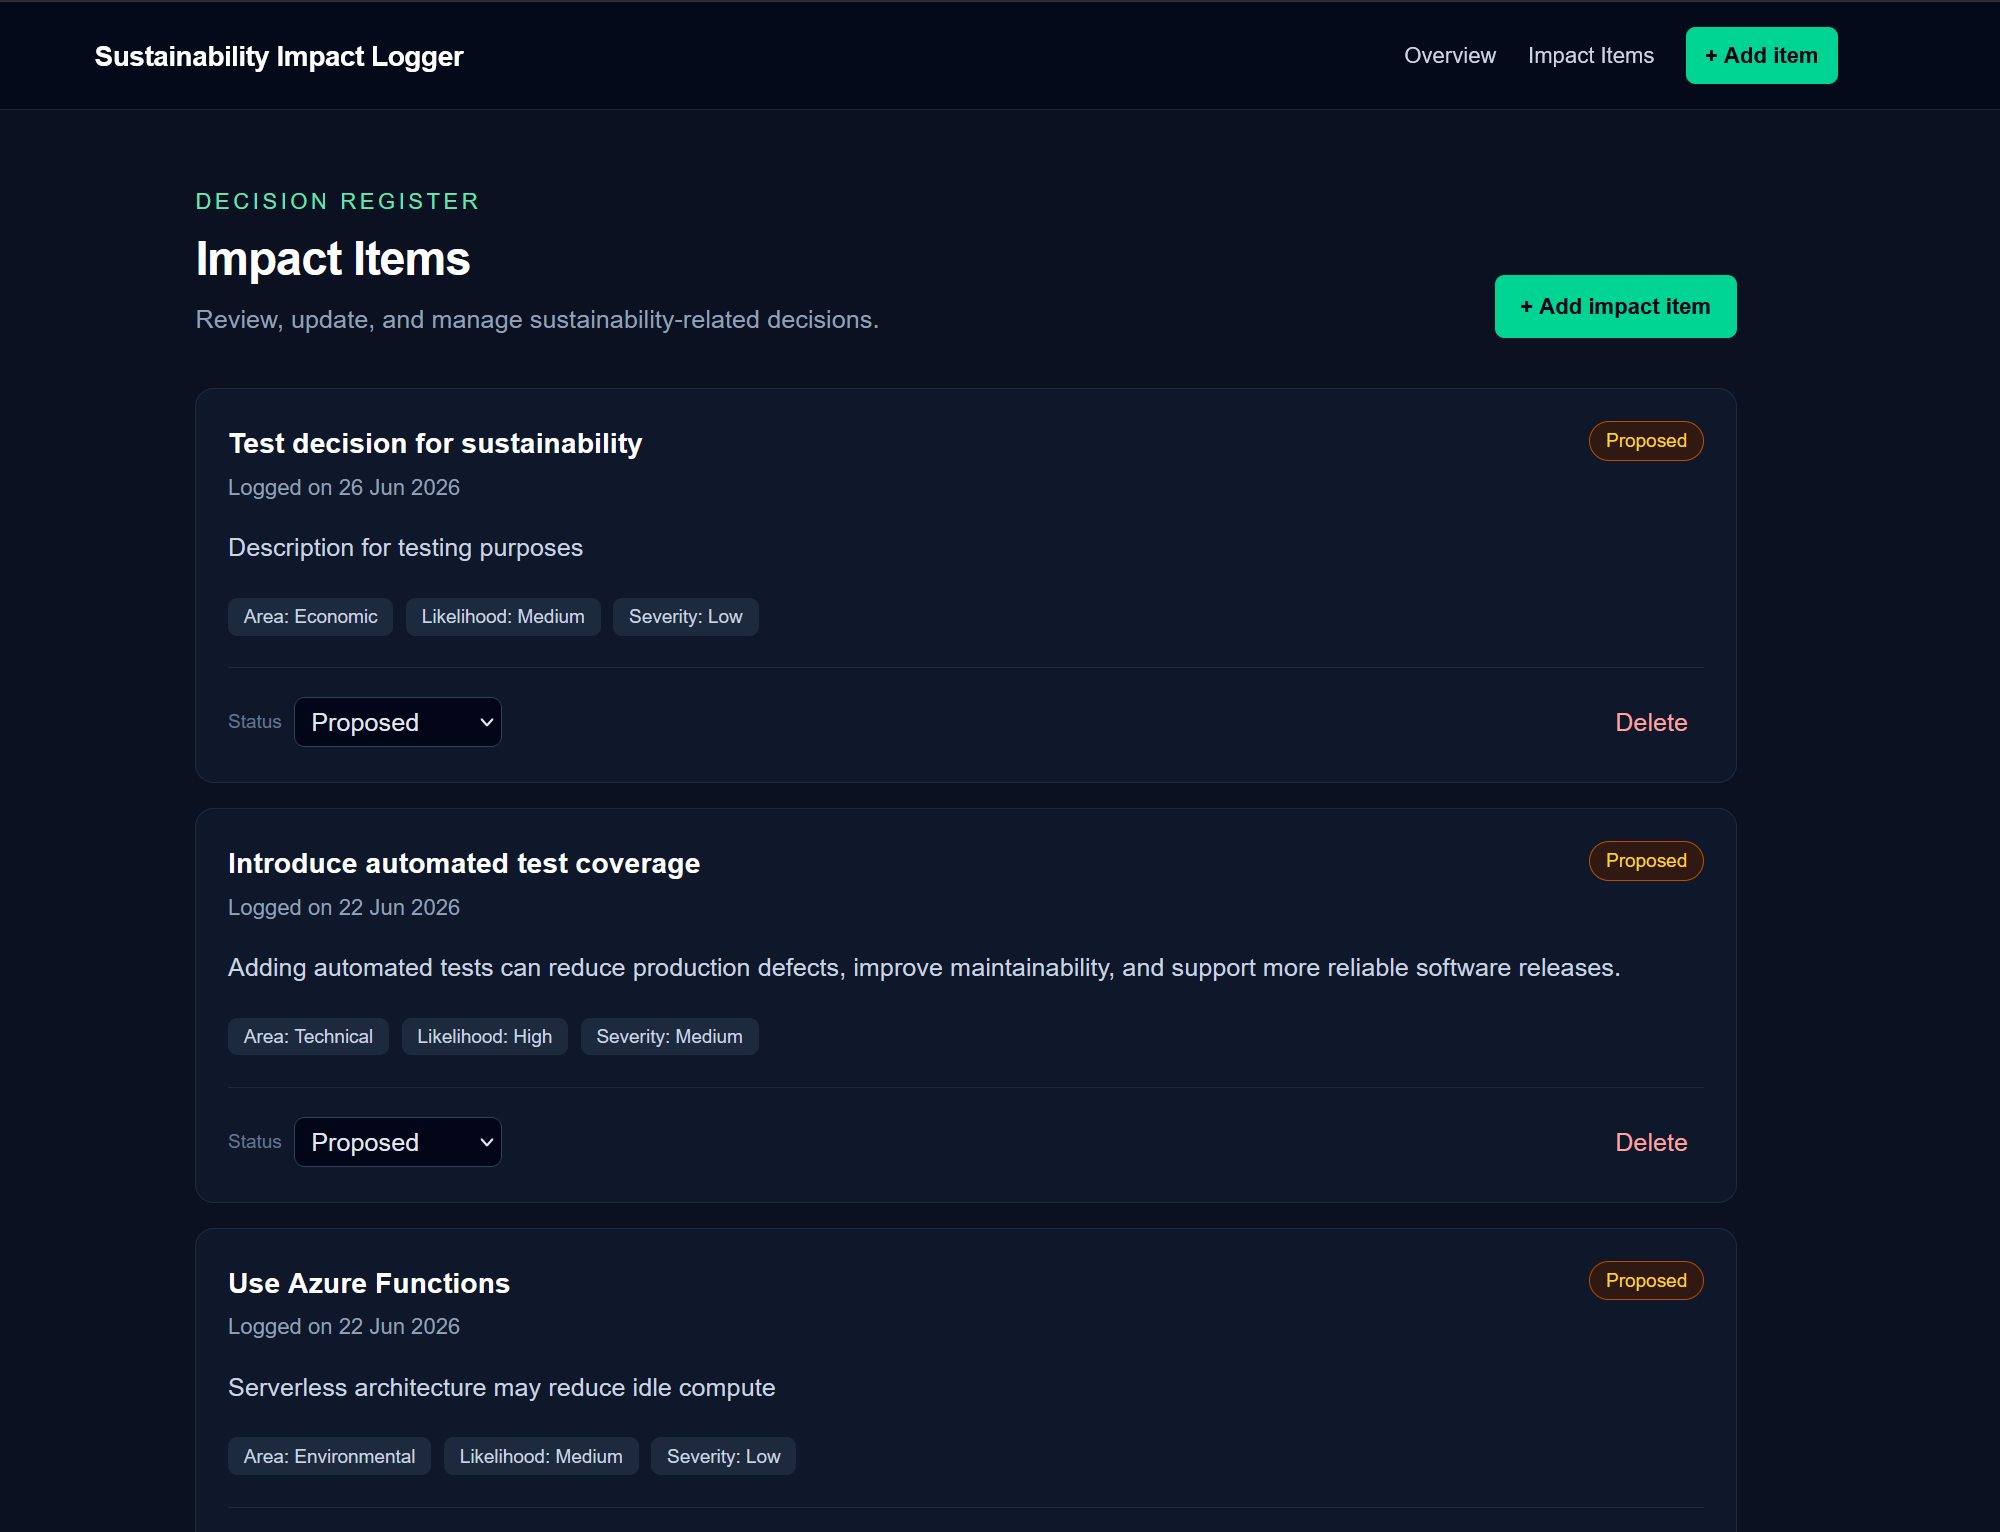
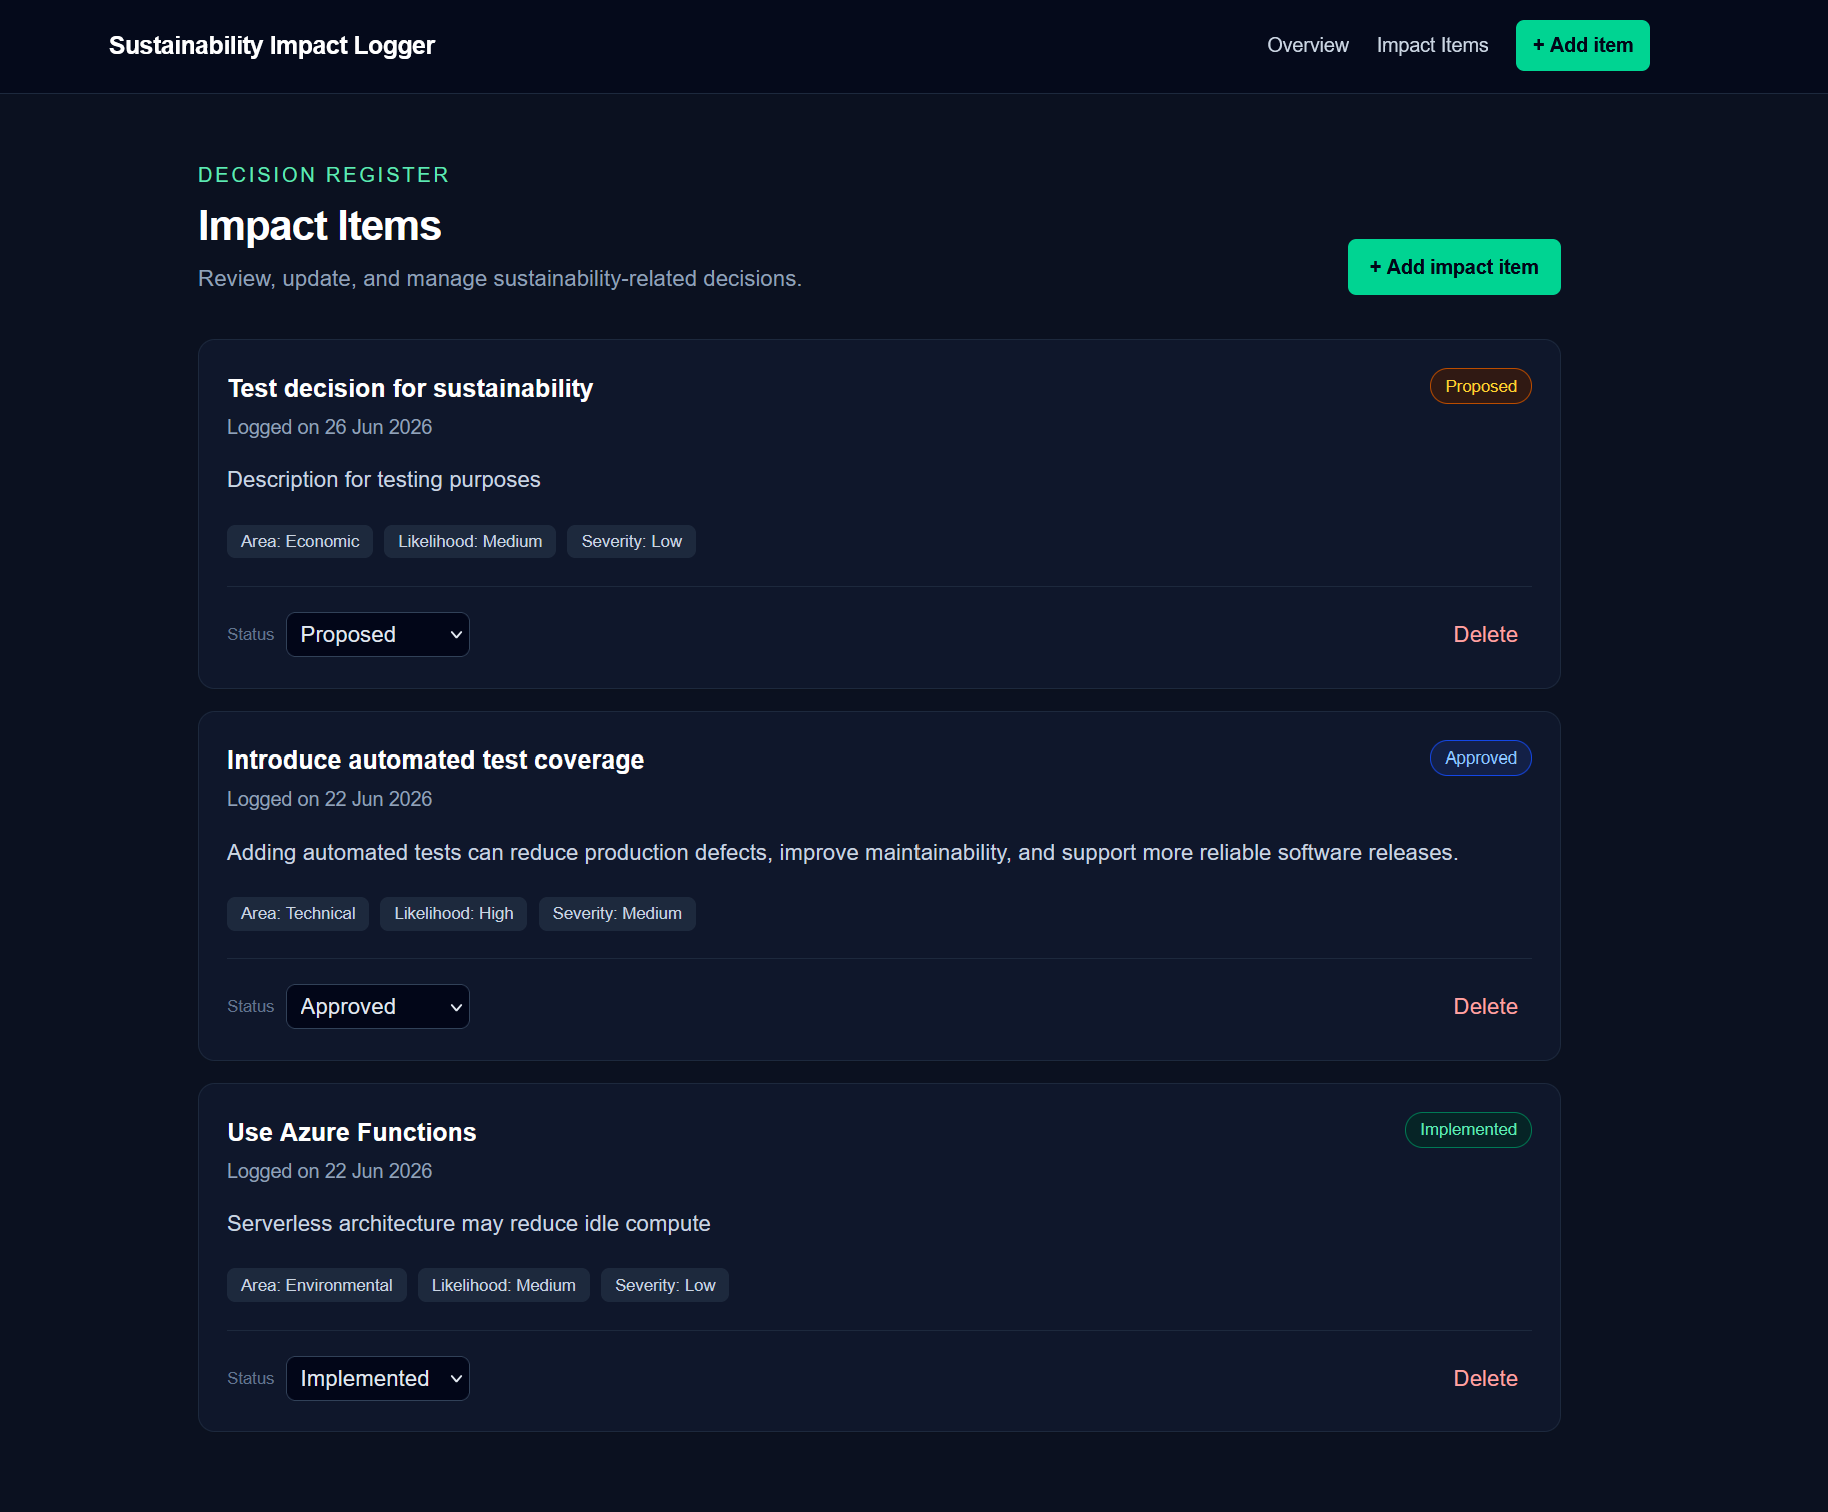
Fix bugs, improve API handling, update screenshots

diff --git a/src/app/api/impact-items/[id]/route.ts b/src/app/api/impact-items/[id]/route.ts
@@ -1,0 +1,84 @@
+import { NextResponse } from "next/server";
+
+import { prisma } from "@/lib/prisma";
+import { impactItemStatusSchema } from "@/lib/validators";
+
+type RouteContext = {
+  params: Promise<{
+    id: string;
+  }>;
+};
+
+export async function PATCH(
+  request: Request,
+  { params }: RouteContext
+) {
+  try {
+    const { id } = await params;
+
+    const body: unknown = await request.json();
+
+    const validated = impactItemStatusSchema.safeParse(body);
+
+    if (!validated.success) {
+      return NextResponse.json(
+        {
+          error: "Validation failed.",
+          details: validated.error.issues,
+        },
+        { status: 400 }
+      );
+    }
+
+    const updatedItem = await prisma.impactItem.update({
+      where: { id },
+      data: {
+        status: validated.data.status,
+      },
+    });
+
+    return NextResponse.json(updatedItem);
+  } catch (error) {
+    console.error("PATCH impact item failed:", error);
+
+    return NextResponse.json(
+      {
+        error:
+          error instanceof Error
+            ? error.message
+            : "Could not update impact item.",
+      },
+      { status: 500 }
+    );
+  }
+}
+
+export async function DELETE(
+  _request: Request,
+  { params }: RouteContext
+) {
+  try {
+    const { id } = await params;
+
+    await prisma.impactItem.delete({
+      where: { id },
+    });
+
+    // A 204 response intentionally has no body.
+    return new NextResponse(null, {
+      status: 204,
+    });
+  } catch (error) {
+    console.error("DELETE impact item failed:", error);
+
+    return NextResponse.json(
+      {
+        error:
+          error instanceof Error
+            ? error.message
+            : "Could not delete impact item.",
+      },
+      { status: 500 }
+    );
+  }
+}

diff --git a/src/components/ImpactItemActions.tsx b/src/components/ImpactItemActions.tsx
@@ -21,6 +21,29 @@ function formatLabel(value: string) {
   return value.charAt(0) + value.slice(1).toLowerCase();
 }
 
+async function getErrorMessage(response: Response) {
+  const contentType = response.headers.get("content-type") ?? "";
+
+  if (contentType.includes("application/json")) {
+    const data: unknown = await response.json().catch(() => null);
+
+    if (
+      data &&
+      typeof data === "object" &&
+      "error" in data &&
+      typeof data.error === "string"
+    ) {
+      return data.error;
+    }
+  }
+
+  const text = await response.text().catch(() => "");
+
+  return text
+    ? text.slice(0, 180)
+    : `Request failed with status ${response.status}.`;
+}
+
 export default function ImpactItemActions({
   id,
   initialStatus,
@@ -32,6 +55,8 @@ export default function ImpactItemActions({
   const [isDeleting, setIsDeleting] = useState(false);
 
   async function updateStatus(newStatus: ImpactStatus) {
+    const previousStatus = status;
+
     setStatus(newStatus);
     setIsSaving(true);
 
@@ -47,13 +72,18 @@ export default function ImpactItemActions({
       });
 
       if (!response.ok) {
-        throw new Error("Could not update status.");
+        throw new Error(await getErrorMessage(response));
       }
 
       router.refresh();
-    } catch {
-      setStatus(initialStatus);
-      alert("Could not update the status. Please try again.");
+    } catch (error) {
+      setStatus(previousStatus);
+
+      alert(
+        error instanceof Error
+          ? error.message
+          : "Could not update the status."
+      );
     } finally {
       setIsSaving(false);
     }
@@ -76,12 +106,19 @@ export default function ImpactItemActions({
       });
 
       if (!response.ok) {
-        throw new Error("Could not delete item.");
+        throw new Error(await getErrorMessage(response));
       }
 
+      // Do not call response.json() here.
+      // DELETE returns 204 No Content.
       router.refresh();
-    } catch {
-      alert("Could not delete this item. Please try again.");
+    } catch (error) {
+      alert(
+        error instanceof Error
+          ? error.message
+          : "Could not delete this item."
+      );
+
       setIsDeleting(false);
     }
   }

diff --git a/src/app/api/impact-items/route.ts b/src/app/api/impact-items/route.ts
@@ -1,5 +1,4 @@
 import { NextResponse } from "next/server";
-import { ZodError } from "zod";
 
 import { prisma } from "@/lib/prisma";
 import { impactItemSchema } from "@/lib/validators";
@@ -14,10 +13,10 @@ export async function GET() {
 
     return NextResponse.json(items);
   } catch (error) {
-    console.error("Failed to fetch impact items:", error);
+    console.error("GET impact items failed:", error);
 
     return NextResponse.json(
-      { error: "Failed to fetch impact items." },
+      { error: "Could not fetch impact items." },
       { status: 500 }
     );
   }
@@ -25,42 +24,37 @@ export async function GET() {
 
 export async function POST(request: Request) {
   try {
-    const body = await request.json();
+    const body: unknown = await request.json();
 
-    const validated = impactItemSchema.parse(body);
+    const validated = impactItemSchema.safeParse(body);
 
-    const item = await prisma.impactItem.create({
-      data: validated,
-    });
-
-    return NextResponse.json(item, {
-      status: 201,
-    });
-  } catch (error) {
-    if (error instanceof SyntaxError) {
-      return NextResponse.json(
-        {
-          error:
-            "Invalid or missing JSON request body. Send valid JSON with Content-Type: application/json.",
-        },
-        { status: 400 }
-      );
-    }
-
-    if (error instanceof ZodError) {
+    if (!validated.success) {
       return NextResponse.json(
         {
           error: "Validation failed.",
-          details: error.issues,
+          details: validated.error.issues,
         },
         { status: 400 }
       );
     }
 
-    console.error("Failed to create impact item:", error);
+    const createdItem = await prisma.impactItem.create({
+      data: validated.data,
+    });
+
+    return NextResponse.json(createdItem, {
+      status: 201,
+    });
+  } catch (error) {
+    console.error("POST impact item failed:", error);
 
     return NextResponse.json(
-      { error: "Failed to create impact item." },
+      {
+        error:
+          error instanceof Error
+            ? error.message
+            : "Could not create impact item.",
+      },
       { status: 500 }
     );
   }